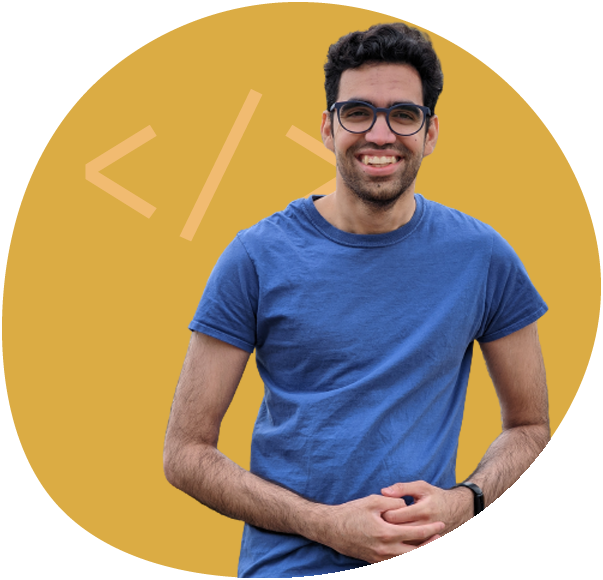
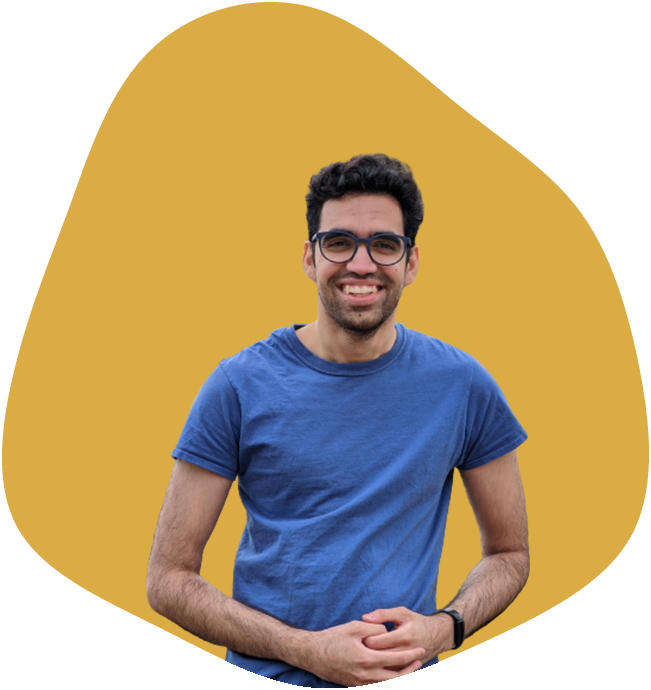
Partial changes

diff --git a/public/index.html b/public/index.html
@@ -5,25 +5,8 @@
     <link rel="icon" href="%PUBLIC_URL%/favicon.ico" />
     <meta name="viewport" content="width=device-width, initial-scale=1" />
     <meta name="theme-color" content="#000000" />
-    <meta
-      name="description"
-      content="Web site created using create-react-app"
-    />
-    <link rel="apple-touch-icon" href="%PUBLIC_URL%/logo192.png" />
-    <!--
-      manifest.json provides metadata used when your web app is installed on a
-      user's mobile device or desktop. See https://developers.google.com/web/fundamentals/web-app-manifest/
-    -->
+    <meta name="description" content="Siddhant Bansal's website." />
     <link rel="manifest" href="%PUBLIC_URL%/manifest.json" />
-    <!--
-      Notice the use of %PUBLIC_URL% in the tags above.
-      It will be replaced with the URL of the `public` folder during the build.
-      Only files inside the `public` folder can be referenced from the HTML.
-
-      Unlike "/favicon.ico" or "favicon.ico", "%PUBLIC_URL%/favicon.ico" will
-      work correctly both with client-side routing and a non-root public URL.
-      Learn how to configure a non-root public URL by running `npm run build`.
-    -->
     <link rel="preconnect" href="https://fonts.googleapis.com" />
     <link rel="preconnect" href="https://fonts.gstatic.com" crossorigin />
     <link
@@ -35,15 +18,5 @@
   <body>
     <noscript>You need to enable JavaScript to run this app.</noscript>
     <div id="root"></div>
-    <!--
-      This HTML file is a template.
-      If you open it directly in the browser, you will see an empty page.
-
-      You can add webfonts, meta tags, or analytics to this file.
-      The build step will place the bundled scripts into the <body> tag.
-
-      To begin the development, run `npm start` or `yarn start`.
-      To create a production bundle, use `npm run build` or `yarn build`.
-    -->
   </body>
 </html>

diff --git a/src/components/Education.tsx b/src/components/Education.tsx
@@ -1,20 +1,42 @@
 import React from "react";
-import Kitty from "./../static/404_kitty.svg";
+import "./Education.scss";
 
 const Education = () => {
   return (
-    <div
-      style={{
-        display: "flex",
-        justifyContent: "center",
-        alignItems: "center",
-        height: "100vh",
-        fontSize: "4rem",
-        color: "lightgrey",
-      }}
-    >
-      <img width="50%" src={Kitty} />
-      Education Page is under construction
+    <div className="education-container">
+      <div className="timeline">
+        {/* Row 1 */}
+        <div className="timeline-empty" />
+        <div className="timeline-middle">
+          <div className="timeline-circle" />
+        </div>
+        <div className="timeline-content">
+          <span className="date">2019 - 2021</span>
+          <span className="degree">Master's in Applied Computer Science</span>
+          <span className="location">Concordia University; (4.17/4.3 GPA)</span>
+        </div>
+
+        {/* Row 2 */}
+        <div className="timeline-content">
+          <h3>Bachelor's in Technology: Computer Science Engineering</h3>
+          <p>Amity University</p>
+        </div>
+        <div className="timeline-middle">
+          <div className="timeline-circle"></div>
+        </div>
+        <div className="timeline-empty" />
+
+        {/* Row 3 */}
+        <div className="timeline-empty" />
+        <div className="timeline-middle fadeout">
+          <div className="timeline-circle" />
+        </div>
+        <div className="timeline-content">
+          <h3>High School: 2009-2013</h3>
+          <p>St. Andrews Scots Sr. Sec. School</p>
+          <p>Physics, Chemistry, Math, Computer Science</p>
+        </div>
+      </div>
     </div>
   );
 };

diff --git a/src/components/Education.scss b/src/components/Education.scss
@@ -1,0 +1,73 @@
+@import "variables"; // TODO eject and change to @use
+
+.education-container {
+  display: flex;
+  margin-top: 10rem;
+  align-items: center;
+  justify-content: center;
+
+  .timeline {
+    width: 80%;
+    max-width: 60%;
+    display: flex;
+    flex-direction: column;
+
+    .timeline-content {
+      background: #1f1f1f;
+      color: white;
+      padding: 1.75rem;
+      overflow-wrap: break-word;
+      margin: 1rem;
+      border-radius: 0.5rem;
+
+      display: flex;
+      flex-direction: column;
+
+      & > * {
+        margin: 0.25rem 0rem;
+      }
+
+      .date {
+        color: $accent;
+      }
+
+      .degree {
+        font-weight: bold;
+        font-size: 1.25rem;
+        margin-top: 0.75rem;
+      }
+
+      .location {
+        color: $accent;
+      }
+    }
+  }
+
+  @media screen and (min-width: 768px) {
+    .timeline {
+      display: grid;
+      grid-template-columns: 1fr 3px 1fr;
+
+      .timeline-middle {
+        position: relative;
+        background: $accent;
+        width: 0.2rem;
+
+        &.fadeout {
+          background: linear-gradient($accent 75%, rgba(255, 255, 255, 0) 100%);
+        }
+      }
+
+      .timeline-circle {
+        position: absolute;
+        top: 0;
+        left: 50%;
+        width: 15px;
+        height: 15px;
+        border-radius: 50%;
+        background-color: $accent;
+        transform: translateX(-50%);
+      }
+    }
+  }
+}

diff --git a/src/index.tsx b/src/index.tsx
@@ -2,7 +2,6 @@ import React from "react";
 import ReactDOM from "react-dom/client";
 import { RouterProvider } from "react-router-dom";
 import reportWebVitals from "./reportWebVitals";
-import NavBar from "./components/NavBar";
 import router from "./router";
 
 const root = ReactDOM.createRoot(

diff --git a/src/components/Home.scss b/src/components/Home.scss
@@ -9,6 +9,7 @@ body {
 
 .main {
   display: flex;
+  flex-wrap: wrap;
   justify-content: space-around;
   align-items: center;
   margin: 5rem;
@@ -48,7 +49,10 @@ body {
   }
 
   .profile {
-    flex: 1;
     text-align: center;
+
+    img {
+      max-width: 100%;
+    }
   }
 }

diff --git a/public/404.html b/public/404.html
@@ -1,1 +1,1 @@
-Hello, friend
+404: Not found!
